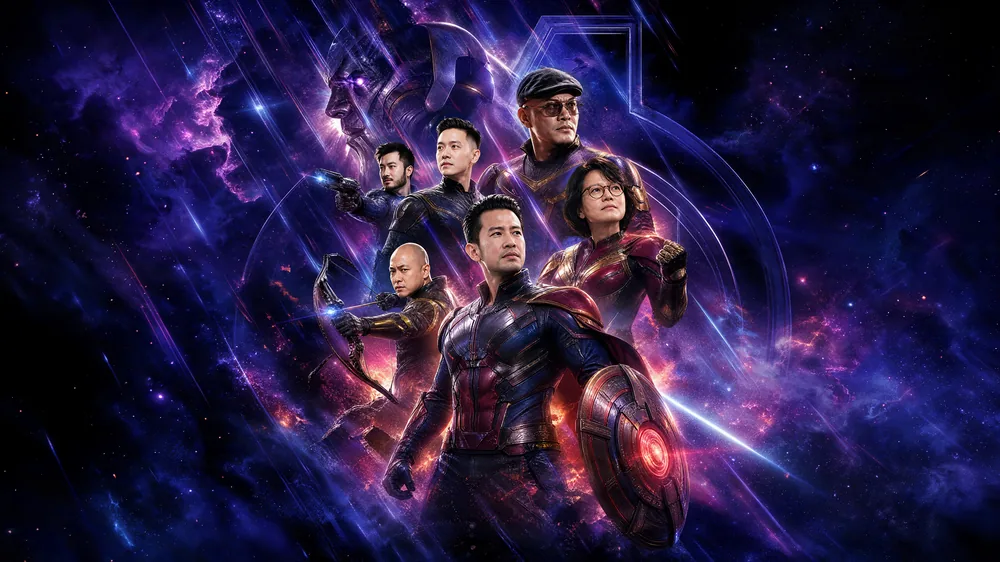
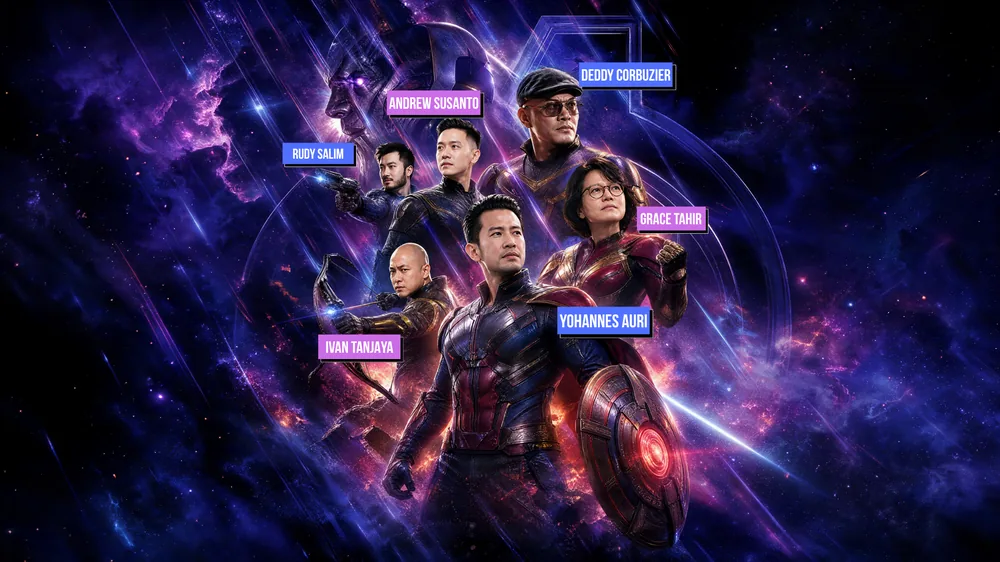
Investors: poster baru dengan nama
Claude-Session: https://claude.ai/code/session_01AtteAEXG3PAUUqbcT1X13P

diff --git a/flux-home.html b/flux-home.html
@@ -1323,7 +1323,7 @@ body.gal-open{overflow:hidden}
       </div>
 
       <figure class="inv-poster rv">
-        <img src="aset/investors-1000.webp" srcset="aset/investors-1000.webp 1000w, aset/investors.webp 2000w" sizes="(max-width:1200px) 94vw, 1180px" width="2000" height="1125" loading="lazy" decoding="async" alt="Poster para investor Flux Creative Universe">
+        <img src="aset/investors-1000.webp?v=2" srcset="aset/investors-1000.webp?v=2 1000w, aset/investors.webp?v=2 1920w" sizes="(max-width:1200px) 94vw, 1180px" width="1920" height="1080" loading="lazy" decoding="async" alt="Poster para investor Flux Creative Universe">
       </figure>
     </div>
   </section>
